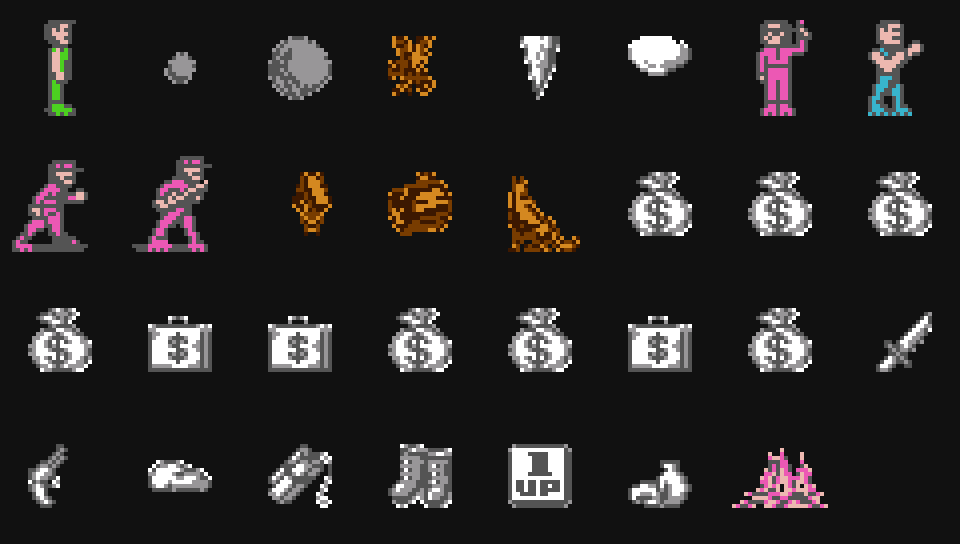
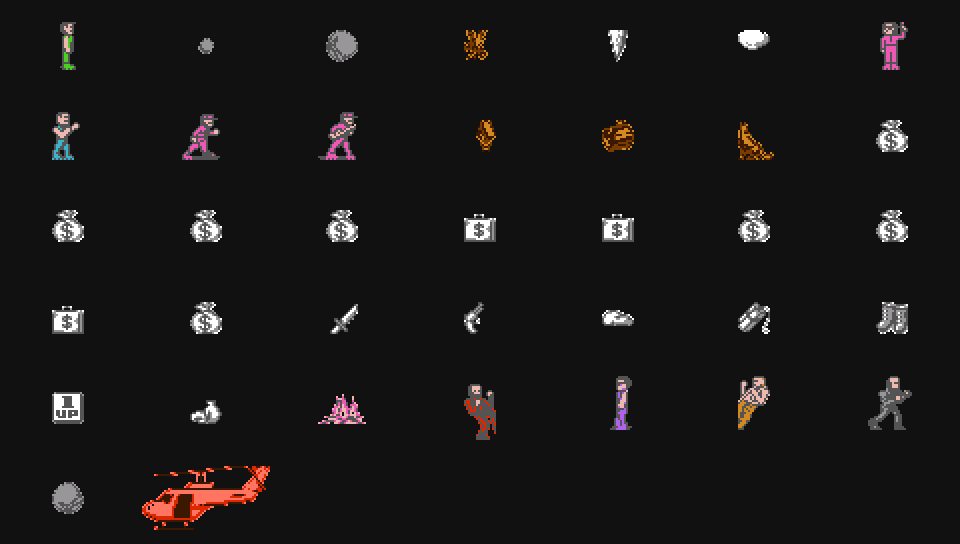
Cliffhanger: the bosses, the helicopter and the falling rocks in the objects table — the objects the sections' own code puts in, by their handler

diff --git a/cliffhanger/src/objects-table.ts b/cliffhanger/src/objects-table.ts
@@ -78,6 +78,22 @@ ppu.scanline = (line) => {
   }
 };
 
+/**
+ * The objects the lists do not place: each section's own code puts them in a slot (no entry behind
+ * it at $6D-$70, or the fifth slot), known by the handler the slot runs (byte 1; a list's kind runs
+ * its template's byte 11 there: the bags $10/$11, the wolf $30). The bosses, the helicopter and the
+ * falling rocks; not the shots and thrown knives ($01, $03, $33, $34, $36), which are not things on
+ * the mountain. Read off the run's frames (STATUS §15).
+ */
+const CODE: Record<number, { name: string; group: string; big: boolean; note: string }> = {
+  0x2a: { name: 'boss', group: 'boss', big: true, note: 'at the cabin, section 5' },
+  0x2b: { name: 'boss', group: 'boss', big: true, note: 'on the snow slope, section 8' },
+  0x2c: { name: 'boss', group: 'boss', big: true, note: 'in the ice cave, section 11' },
+  0x31: { name: 'helicopter', group: 'boss', big: true, note: 'it shoots from above, section 14' },
+  0x2d: { name: 'the last boss', group: 'boss', big: true, note: 'the last fight, section 15' },
+  0x2f: { name: 'falling rock', group: 'hazard', big: false, note: 'put by the sections’ own code' },
+};
+const codeSections = new Map<number, Set<number>>();
 /** The hero's key among the kinds' looks: he is not a kind, his slot is his own ($0614). */
 const HERO = -1;
 interface Look { sprites: number[][]; banks: number[]; palette: number[]; tall: boolean; n: number; frame: number }
@@ -92,12 +108,17 @@ for (let f = 985; f <= end; f++) {
   const base = B5(m.ram[0x51e] | (m.ram[0x51f] << 8));
   const pos = (b: number) => ({ x: ((m.ram[b + 3] << 8) | m.ram[b + 2]) / 32, y: ((m.ram[b + 10] << 8) | m.ram[b + 9]) / 32 });
   const near = (x: number) => { while (x < cam.x - 512) x += 2048; while (x > cam.x + 1536) x -= 2048; return x; };
-  const slots: { kind: number; sx: number; sy: number }[] = [];
-  for (let k = 0; k < 4; k++) {
-    const b = 0x633 + 0x1f * k, idx = m.ram[0x6d + k];
-    if (!(m.ram[b] & 1) || idx >= 0xfe) continue;
+  // Every slot on: a list's kind (its entry at $6D-$70), one of the code's (CODE, by its handler at
+  // byte 1, as 0x100 + it), or anything else (a shot: -1), which keeps its own sprites.
+  const slots: { kind: number; sx: number; sy: number; big: boolean }[] = [];
+  for (let k = 0; k < 5; k++) {
+    const b = 0x633 + 0x1f * k, idx = k < 4 ? m.ram[0x6d + k] : 0xff;
+    if (!(m.ram[b] & 1)) continue;
     const p = pos(b);
-    slots.push({ kind: prg[base + 9 * idx + 1], sx: near(p.x) - cam.x, sy: p.y - cam.y });
+    const fromList = idx < 0xfe && (m.ram[0x51e] | m.ram[0x51f]) !== 0;
+    const kind = fromList ? prg[base + 9 * idx + 1] : CODE[m.ram[b + 1]] ? 0x100 + m.ram[b + 1] : -1;
+    slots.push({ kind, sx: near(p.x) - cam.x, sy: p.y - cam.y, big: kind >= 0x100 && CODE[kind - 0x100].big });
+    if (kind >= 0x100) (codeSections.get(kind) ?? codeSections.set(kind, new Set()).get(kind)!).add(m.ram[0x40a] + 1);
   }
   const pl = pos(0x614);
   const qx = near(pl.x) - cam.x, qy = pl.y - cam.y;
@@ -106,24 +127,26 @@ for (let f = 985; f <= end; f++) {
   const here = `${pl.x},${pl.y}`;
   still = here === lastPlace ? still + 1 : 0;
   lastPlace = here;
-  if (!slots.length) {
-    if (still < 10 || qx < 24 || qx > 200 || qy < 24 || qy > 120) continue;
+  // No object within 64 px of him (a shot far off is no matter).
+  const alone = !slots.some((sl) => Math.abs(sl.sx - qx) < 64 && Math.abs(sl.sy - qy) < 64);
+  if (alone && still >= 10 && qx >= 24 && qx <= 200 && qy >= 24 && qy <= 120) {
     const sprites: number[][] = [];
     for (let k = 0; k < 64; k++) {
       if (oam[k * 4] >= 0xef) continue;
       const y = oam[k * 4] + 1, x = oam[k * 4 + 3];
       if (x >= qx - 4 && x < qx + 24 && y >= qy - 4 && y < qy + 40) sprites.push([x - qx, y - qy, oam[k * 4 + 1], oam[k * 4 + 2]]);
     }
-    if (!sprites.length || sprites.every((p) => [1, 2, 3].every((c) => dark(sprPal[(p[3] & 3) * 4 + c])))) continue;
-    const ax = Math.min(...sprites.map((p) => p[0])), ay = Math.min(...sprites.map((p) => p[1]));
-    const rel = sprites.map(([x, y, t, a]) => [x - ax, y - ay, t, a]).sort((a, b) => a[1] - b[1] || a[0] - b[0]);
-    const key = JSON.stringify(rel) + rel.map((p) => sprPal.slice((p[3] & 3) * 4, (p[3] & 3) * 4 + 4).join('.')).join('|');
-    if (!seen.has(HERO)) seen.set(HERO, new Map());
-    const v = seen.get(HERO)!.get(key) ?? { sprites: rel, banks, palette: sprPal, tall: (ctrl & 0x20) !== 0, n: 0, frame: f };
-    v.n++;
-    seen.get(HERO)!.set(key, v);
-    continue;
+    if (sprites.length && !sprites.every((p) => [1, 2, 3].every((c) => dark(sprPal[(p[3] & 3) * 4 + c])))) {
+      const ax = Math.min(...sprites.map((p) => p[0])), ay = Math.min(...sprites.map((p) => p[1]));
+      const rel = sprites.map(([x, y, t, a]) => [x - ax, y - ay, t, a]).sort((a, b) => a[1] - b[1] || a[0] - b[0]);
+      const key = JSON.stringify(rel) + rel.map((p) => sprPal.slice((p[3] & 3) * 4, (p[3] & 3) * 4 + 4).join('.')).join('|');
+      if (!seen.has(HERO)) seen.set(HERO, new Map());
+      const v = seen.get(HERO)!.get(key) ?? { sprites: rel, banks, palette: sprPal, tall: (ctrl & 0x20) !== 0, n: 0, frame: f };
+      v.n++;
+      seen.get(HERO)!.set(key, v);
+    }
   }
+  if (!slots.length) continue;
   const mine = new Map<number, number[][]>();
   for (let k = 0; k < 64; k++) {
     if (oam[k * 4] >= 0xef) continue;
@@ -131,7 +154,7 @@ for (let f = 985; f <= end; f++) {
     if (x >= qx - 4 && x < qx + 24 && y >= qy - 4 && y < qy + 40) continue;
     let best = -1, bd = Infinity;
     slots.forEach((sl, i) => {
-      if (x < sl.sx - 16 || x >= sl.sx + 40 || y < sl.sy - 24 || y >= sl.sy + 40) return;
+      if (sl.big ? x < sl.sx - 48 || x >= sl.sx + 72 || y < sl.sy - 40 || y >= sl.sy + 56 : x < sl.sx - 16 || x >= sl.sx + 40 || y < sl.sy - 24 || y >= sl.sy + 40) return;
       const d = Math.hypot(x + 4 - (sl.sx + 8), y + 4 - (sl.sy + 12));
       if (d < bd) (bd = d), (best = i);
     });
@@ -139,9 +162,9 @@ for (let f = 985; f <= end; f++) {
   }
   for (const [i, sprites] of mine) {
     const sl = slots[i];
-    if (!kinds.has(sl.kind) || ITEMS[sl.kind]) continue;
-    // Wholly on the field.
-    if (sl.sx < 24 || sl.sx > 200 || sl.sy < 24 || sl.sy > 130) continue;
+    if (sl.kind < 0 || (sl.kind < 0x100 && (!kinds.has(sl.kind) || ITEMS[sl.kind]))) continue;
+    // Wholly on the field (a boss's or the helicopter's place may be its top).
+    if (sl.big ? sl.sx < 8 || sl.sx > 200 || sl.sy < 8 || sl.sy > 120 : sl.sx < 24 || sl.sx > 200 || sl.sy < 24 || sl.sy > 130) continue;
     if (sprites.every((p) => [1, 2, 3].every((c) => dark(sprPal[(p[3] & 3) * 4 + c])))) continue;
     const ax = Math.min(...sprites.map((p) => p[0])), ay = Math.min(...sprites.map((p) => p[1]));
     const rel = sprites.map(([x, y, t, a]) => [x - ax, y - ay, t, a]).sort((a, b) => a[1] - b[1] || a[0] - b[0]);
@@ -230,7 +253,7 @@ for (let s = 0; s < SECTIONS; s++) {
   }
 }
 
-interface Row { kind: number; id: string; name: string; group: string; item: boolean; worth: number | null; costs?: number[]; count: number | null; sections: number[]; note?: string; img: string; w: number; h: number }
+interface Row { kind: number; id: string; name: string; group: string; item: boolean; worth: number | null; costs?: number[]; count: number | null; sections: number[]; note?: string; code?: boolean; img: string; w: number; h: number }
 const out: Row[] = [];
 const extra = (kind: number) => ({
   group: groupOf(kind),
@@ -258,6 +281,22 @@ for (const kind of [...kinds].sort((a, b) => a - b)) {
   out.push({ kind, id, name: OTHERS[kind] ?? `object ${id}`, item: false, ...extra(kind), img: file, w, h });
   console.log(`${id}: ${look.sprites.length} sprites, ${look.n} of ${ways.reduce((t, v) => t + v.n, 0)} frames (first ${look.frame}), ${w} × ${h}`);
 }
+// The code's objects: id = their handler, as `$2A`.
+for (const [t, c] of Object.entries(CODE).map(([t, c]) => [Number(t), c] as const)) {
+  const ways = [...(seen.get(0x100 + t)?.values() ?? [])].sort((a, b) => b.n - a.n);
+  if (!ways.length) {
+    missing.push(0x100 + t);
+    continue;
+  }
+  const look = ways.filter((w) => w.n >= ways[0].n * 0.2).sort((a, b) => b.sprites.length - a.sprites.length || b.n - a.n)[0];
+  const file = `kinds/code-${t.toString(16)}.png`;
+  const { w, h } = draw(look, `out/levels/${file}`);
+  const id = `$${t.toString(16).toUpperCase()}`;
+  const sections = [...(codeSections.get(0x100 + t) ?? [])].sort((a, b) => a - b);
+  out.push({ kind: 0x100 + t, id, name: c.name, group: c.group, item: false, worth: null, count: null, sections, note: c.note, code: true, img: file, w, h });
+  console.log(`${id} (code): ${look.sprites.length} sprites, ${look.n} of ${ways.reduce((q, v) => q + v.n, 0)} frames (first ${look.frame}), ${w} x ${h}`);
+}
+
 // The hero first: not a kind of the lists, his own slot.
 // Standing: his commonest pose while his place does not change (taken from any frame, the speedrun's
 // commonest is a sliver, one column of sprites, and its fullest a fight).

diff --git a/cliffhanger/src/objects-preview.ts b/cliffhanger/src/objects-preview.ts
@@ -1,6 +1,6 @@
 /**
  * The Objects chapter's card on xrom.dev: every kind of object once, as the chapter's table has them
- * (kinds.json, src/objects-table.ts), by id in a grid on the site's dark, ×4 with the pixels kept
+ * (kinds.json, src/objects-table.ts), by id in a grid on the site's dark (seven to a row, the helicopter is 64 px wide), ×2 with the pixels kept
  * sharp → out/art/objects.png (960 × 544, the run's card's size) and objects.webp.
  *   node --experimental-strip-types --no-warnings src/objects-preview.ts
  */
@@ -9,7 +9,7 @@ import { execFileSync } from 'node:child_process';
 import { encodePng } from '../libs/nes/src/png.ts';
 import { readPng } from './png-read.ts';
 
-const W = 240, H = 136, SCALE = 4, COLS = 8;
+const W = 480, H = 272, SCALE = 2, COLS = 7;
 const kinds = (JSON.parse(readFileSync('out/levels/kinds.json', 'utf8')).objects as { img: string }[]).map((o) => o.img);
 const rows = Math.ceil(kinds.length / COLS);
 const cw = W / COLS, ch = H / rows;

diff --git a/cliffhanger/STATUS.md b/cliffhanger/STATUS.md
@@ -377,3 +377,12 @@ the boots and the like — no enemies; and as many on the map as the hero can ta
   8 px wide, side on; his commonest picture in the run is the same sliver).
 - Not in the Objects table: the hero (his own slot, `$0614`, not in the spawn lists) and whatever
   sections 3, 8 and 15 have — their spawn-list words at `$AD5C` are 0.
+- Not from the lists (the user: "the bosses and the helicopter are missing", 2026-11-16): a slot
+  runs a handler, its byte 1 (a list's kind runs its template's byte 11 there: the bags $10/$11, the
+  wolf $30). Slots with no entry behind them at `$6D-$70` (or the fifth slot) are the sections'
+  own code's: `$2A` the boss at the cabin (section 5), `$2B` the boss on the snow slope (8), `$2C`
+  the boss in the ice cave (11), `$31` the helicopter (14), `$2D` the last boss (15), `$2F` the
+  falling rocks (3 and 13); `$01`, `$03`, `$33`, `$34`, `$36` are shots and thrown knives, left out.
+  objects-table.ts reads their pictures by the slot like the others' (CODE; a wider window for the
+  bosses and the helicopter, 64 × 32) and puts them in the table with that handler as their id. The
+  hero's picture is now taken when no object is within 64 px of him (a shot elsewhere is no matter).
